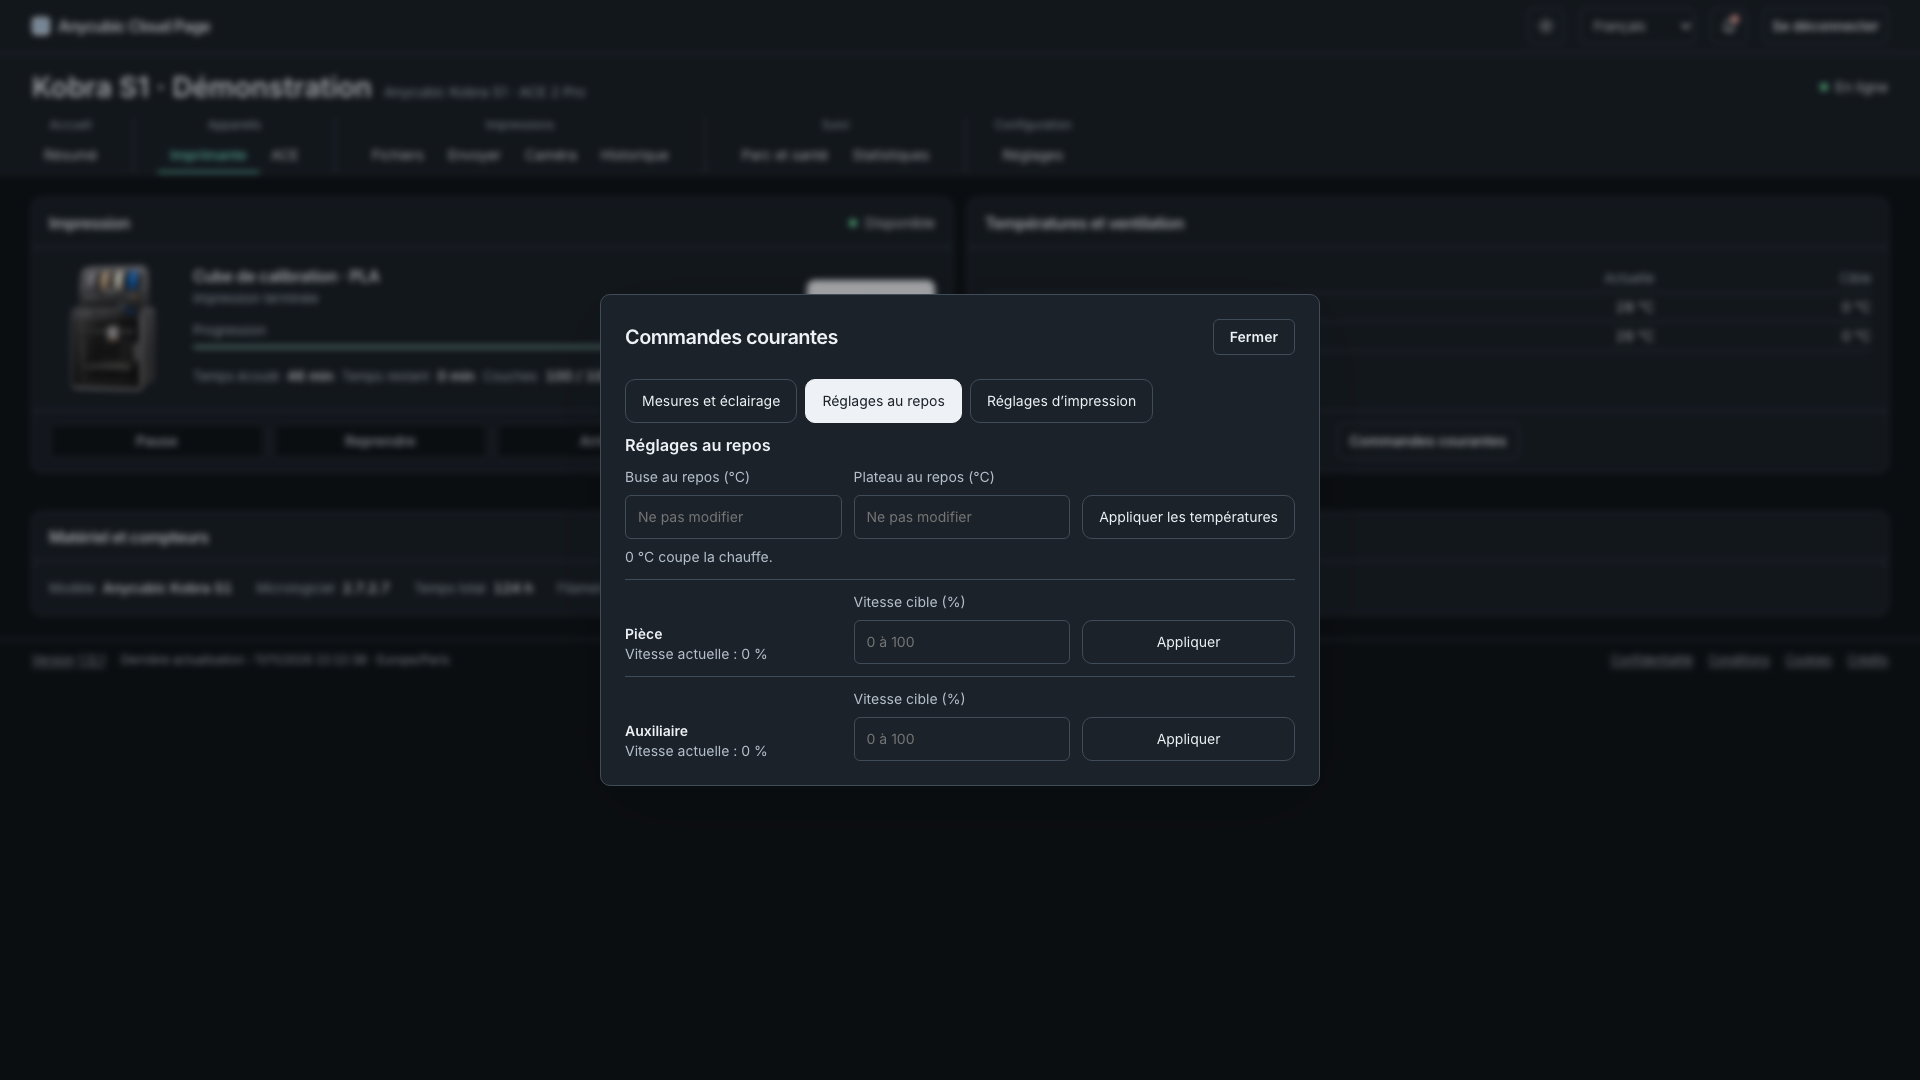
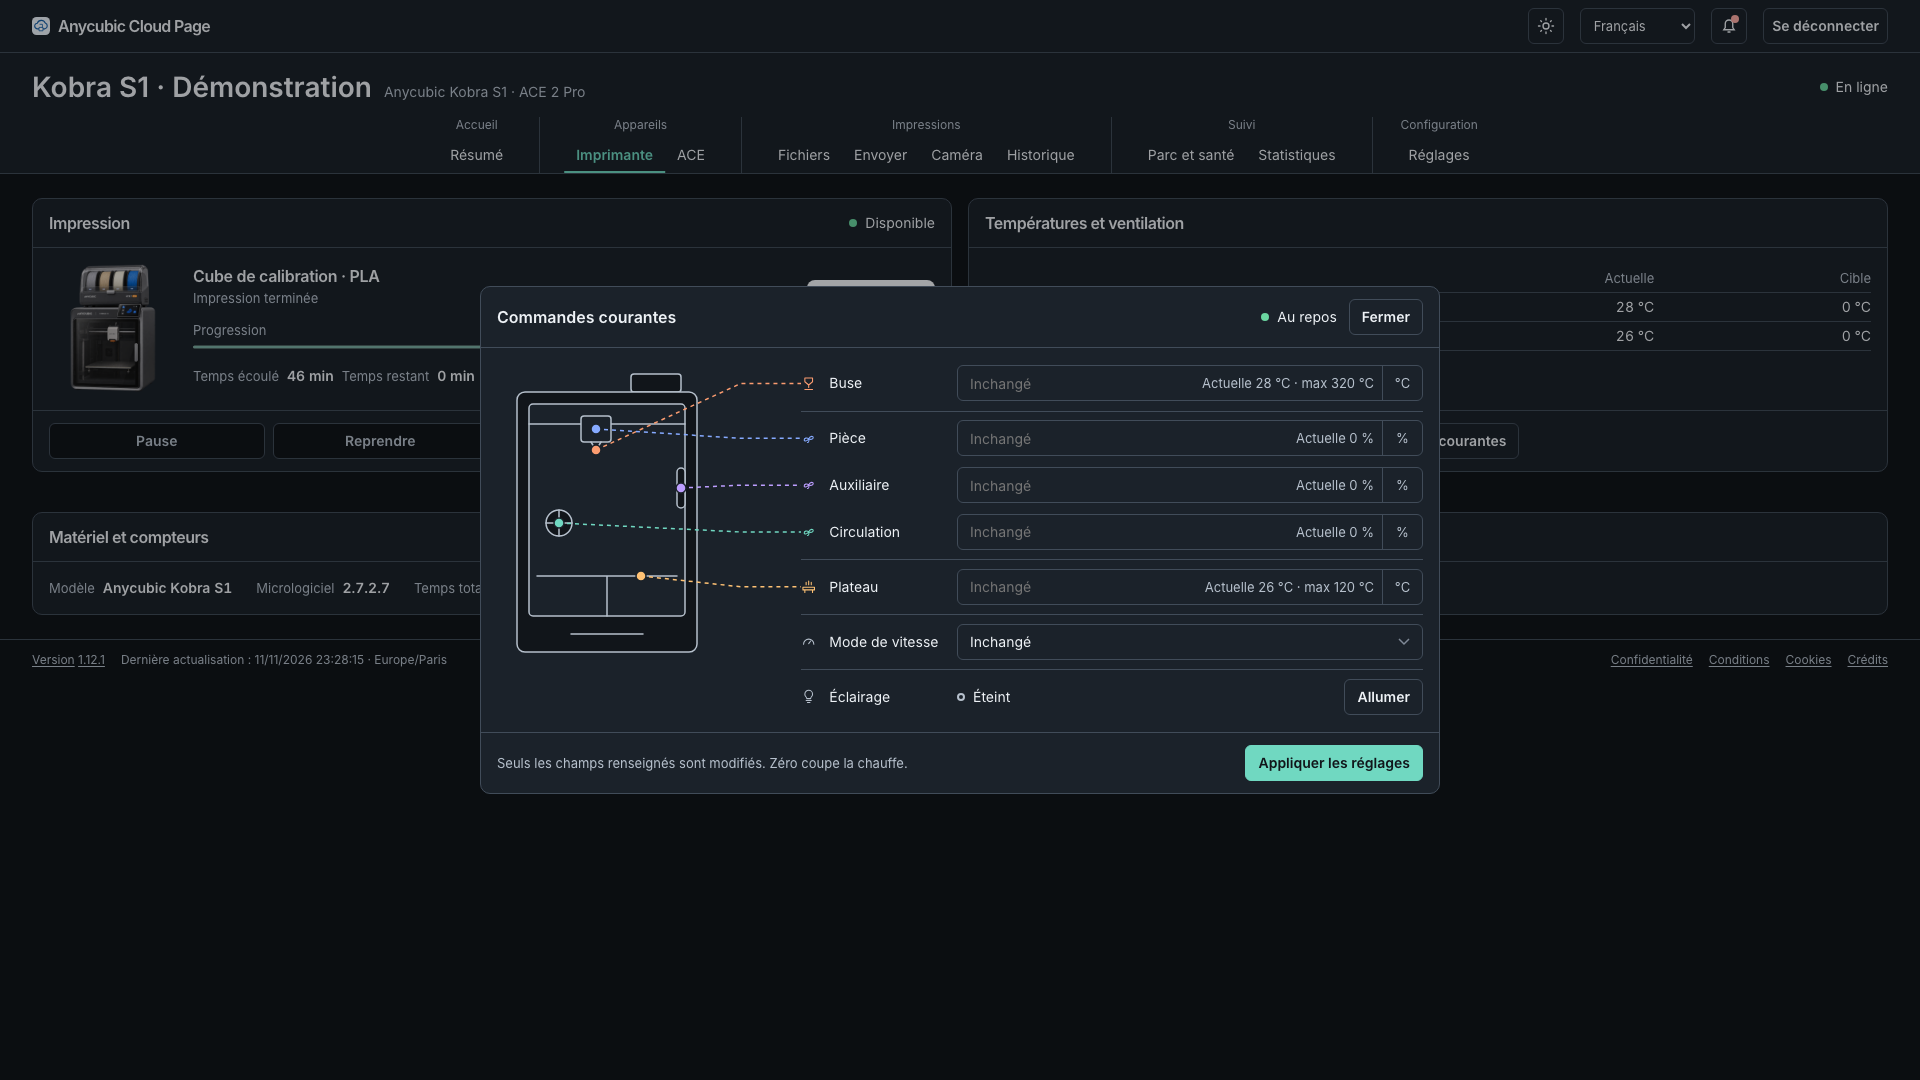
Transmettre le pourcentage réel de circulation
Fixes #323

diff --git a/web/css/atelier-history.css b/web/css/atelier-history.css
@@ -155,7 +155,7 @@
   .history-table :is(th, td):nth-child(4) { width: 13%; }
   .history-table :is(th, td):nth-child(5) { width: 6%; }
 }
-.task-detail-dialog{width:min(60rem,calc(100vw - var(--atelier-space-6) - var(--atelier-space-4)));max-width:60rem;max-height:calc(100dvh - var(--atelier-space-6) - var(--atelier-space-4));padding:0;overflow:auto;border:var(--atelier-rule) solid var(--atelier-line);border-radius:var(--atelier-card-radius);background:var(--atelier-surface);color:var(--atelier-fg);font:var(--atelier-text);box-shadow:none}
+.task-detail-dialog{width:min(var(--atelier-detail-dialog-width),calc(100vw - var(--atelier-space-6) - var(--atelier-space-4)));max-width:var(--atelier-detail-dialog-width);max-height:calc(100dvh - var(--atelier-space-6) - var(--atelier-space-4));padding:0;overflow:auto;border:var(--atelier-rule) solid var(--atelier-line);border-radius:var(--atelier-card-radius);background:var(--atelier-surface);color:var(--atelier-fg);font:var(--atelier-text);box-shadow:none}
 .task-detail-dialog::backdrop{background:var(--atelier-backdrop);backdrop-filter:none}
 .task-detail-dialog .dialog-top{position:sticky;top:0;z-index:2;display:flex;align-items:center;gap:var(--atelier-space-4);margin:0;padding:var(--atelier-space-3) var(--atelier-space-4);border-bottom:var(--atelier-rule) solid var(--atelier-line);background:var(--atelier-surface)}
 .task-detail-dialog .dialog-top h2{margin:0;font:var(--atelier-card-title);font-weight:var(--atelier-semibold);white-space:nowrap}

diff --git a/web/css/atelier-tokens.css b/web/css/atelier-tokens.css
@@ -33,7 +33,7 @@
   --atelier-workshop-title-size: clamp(var(--atelier-machine-size), 3vw, 2.35rem);
   --atelier-reading-font: 1rem/1.6 var(--atelier-font);
   --atelier-swatch-border: #0002;
-  --atelier-controls-width: 960px;
+  --atelier-detail-dialog-width: 960px;
   --atelier-controls-device: 304px;
   --atelier-controls-diagram-width: 320px;
   --atelier-controls-illustration: 255px;

diff --git a/web/css/atelier-current-controls.css b/web/css/atelier-current-controls.css
@@ -1,6 +1,6 @@
 /* La grille du formulaire sert aussi de repère à l’extrémité des traits. */
 #controls-dialog {
-  width: min(var(--atelier-controls-width), calc(100% - var(--atelier-space-6)));
+  width: min(var(--atelier-detail-dialog-width), calc(100% - var(--atelier-space-6)));
   max-width: none;
   padding: 0;
   border-radius: var(--atelier-card-radius);

diff --git a/app/test_idle_controls.py b/app/test_idle_controls.py
@@ -46,10 +46,17 @@ class IdleControlsTests(unittest.IsolatedAsyncioTestCase):
                     "data": {"type": kind, "target_nozzle_temp": nozzle, "target_hotbed_temp": bed},
                 },
             )
-        self.assertEqual(
-            idle_request(target, {"fan_speed_pct": 20}).order_request_data,
-            {"order_id": "1221", "printer_id": 7, "data": {"fan_speed_pct": 20}},
-        )
+        for key, value in (
+            ("fan_speed_pct", 20),
+            ("aux_fan_speed_pct", 35),
+            ("box_fan_level", 33),
+            ("box_fan_level", 0),
+        ):
+            with self.subTest(key=key, value=value):
+                self.assertEqual(
+                    idle_request(target, {key: value}).order_request_data,
+                    {"order_id": "1221", "printer_id": 7, "data": {key: value}},
+                )
 
     def test_unknown_limits_model_and_invalid_values_never_send(self):
         """Pas de bornes par défaut, de conversion booléenne ni de requête ambiguë."""
@@ -58,6 +65,9 @@ class IdleControlsTests(unittest.IsolatedAsyncioTestCase):
             {"target_hotbed_temp": 111},
             {"target_nozzle_temp": True},
             {"fan_speed_pct": 101},
+            {"box_fan_level": 101},
+            {"box_fan_level": -1},
+            {"box_fan_level": 33, "fan_speed_pct": 20},
             {"fan_speed_pct": 20, "target_hotbed_temp": 30},
             {"fan_speed_pct": 20, "aux_fan_speed_pct": 30},
             {"task_settings": {}},

diff --git a/app/idle_controls.py b/app/idle_controls.py
@@ -72,7 +72,8 @@ def idle_request(target, values):
         raise ValueError("Préchauffage non annoncé pour cette imprimante")
     clean = {key: value for key, value in values.items() if value not in ("", None)}
     temperatures = {"target_nozzle_temp", "target_hotbed_temp"}
-    fans = {"fan_speed_pct", "aux_fan_speed_pct"}
+    # Le client Slicer traite les trois ventilateurs de la S1 sur l’échelle 0–100.
+    fans = {"fan_speed_pct", "aux_fan_speed_pct", "box_fan_level"}
     if clean and clean.keys() <= temperatures:
         parsed = {}
         for key, value in clean.items():
@@ -90,7 +91,6 @@ def idle_request(target, values):
         return IdleOrder(
             1221, target.printer.id, {key: integer(value, 0, 100) for key, value in clean.items()}
         )
-    # L’unité du troisième ventilateur diffère entre clients : ne pas ajouter une échelle supposée.
     raise ValueError("Choisissez les températures ou un seul ventilateur")
 
 

diff --git a/app/test_print_preflight.py b/app/test_print_preflight.py
@@ -27,10 +27,12 @@ class FirmwarePreflightTests(unittest.IsolatedAsyncioTestCase):
                 result = await execute_command(
                     SimpleNamespace(printer=printer, api=api),
                     "settings",
-                    {"target_nozzle_temp": 200},
+                    {"box_fan_level": "33"},
                 )
                 self.assertIn("acceptée", result)
                 api._send_order_change_print_settings.assert_awaited_once()
+                _, settings = api._send_order_change_print_settings.await_args.args
+                self.assertEqual(settings.settings_data, {"box_fan_level": 33})
             else:
                 with self.assertRaisesRegex(ValueError, "impression active"):
                     await execute_command(

diff --git a/app/printer_commands.py b/app/printer_commands.py
@@ -185,7 +185,7 @@ async def execute_command(target, name, d):
             "target_hotbed_temp": (0, 120),
             "fan_speed_pct": (0, 100),
             "aux_fan_speed_pct": (0, 100),
-            "box_fan_level": (0, 3),
+            "box_fan_level": (0, 100),
             "bottom_layers": (0, 1000),
             "bottom_time": (0, 1000),
             "off_time": (0, 1000),

diff --git a/docs/SOURCES.md b/docs/SOURCES.md
@@ -24,7 +24,8 @@ Les [révisions et licences amont](UPSTREAM-COMPARISON.md#lectures-retenues-pour
 
 ## Ventilation et température de chambre
 
-- [Anycubic Cloud Client, description des ordres et de la télémétrie](https://github.com/Nino6689/anycubic-cloud-client/blob/6ea79c733ac3909f7bc1ca4970f2f75fe8d302b7/docs/PROTOCOL.md#545-order-1221--set-fan-speed-data). La commande documente le champ `box_fan_level` et les ordres à une seule cible. Les relevés distinguent le niveau de circulation des pourcentages pièce et auxiliaire. Le document signale aussi une validation côté client plus large. Il ne prouve pas l’unité effectivement acceptée au repos sur la S1.
+- [Anycubic Cloud Client, description des ordres et de la télémétrie](https://github.com/Nino6689/anycubic-cloud-client/blob/6ea79c733ac3909f7bc1ca4970f2f75fe8d302b7/docs/PROTOCOL.md#545-order-1221--set-fan-speed-data). L’ordre `1221` utilise le champ `box_fan_level` pour la circulation et un seul champ par ordre.
+- [Banc de travail officiel Anycubic Slicer Next](https://cloud-universe.anycubic.com/w/p/AcOrcaWeb/workbench/). Le profil S1 du client fixe les limites de `box_fan_level` de 0 à 100. La vue Cloud lit cette valeur en pourcentage et l’envoie telle quelle dans les réglages d’impression.
 - [MineTech13, paquets Linux d’Anycubic Slicer Next](https://github.com/MineTech13/anycubic-slicer-next). Le dépôt reconditionne le client officiel. Il ne contient pas le code de la commande Cloud. Sur la Kobra S1 en mode Cloud, le client installé affiche la circulation en pourcentage et un champ Chambre à 0 °C / 0 °C. Ce dernier ne constitue pas une mesure de chambre exploitable.
 - [OrcaCubic, périmètre de son étude Cloud](https://github.com/marcodiniz/OrcaCubic/blob/main/docs/FUTURE_ANYCUBIC_CLOUD_PRINTING.md). L’intégration testée du projet concerne la Kobra X en réseau local. L’étude Cloud ne valide aucun ordre de ventilation sur la S1.
 - [Wiki Anycubic, chauffage de chambre du modèle S1 Max](https://wiki.anycubic.com/en/fdm-3d-printer/kobra-s1-max-combo/cavity-control-feature-introduction). La limite de 65 °C appartient à cette fonction du S1 Max et ne permet pas de déduire une commande ou une mesure sur la S1.

diff --git a/docs/IDLE-AXES.md b/docs/IDLE-AXES.md
@@ -12,7 +12,7 @@ La fenêtre **Commandes courantes** affiche les mêmes lignes au repos et pendan
 
 Le formulaire de température envoie l’ordre `1216` sous la forme imprimante : `order_id` texte, `printer_id` numérique, `data`, sans `project_id`. `type` vaut 0 pour la buse seule, 1 pour le plateau seul et 2 pour les deux. Les champs de la cible non choisie sont nuls selon ce contrat; `type` détermine les cibles modifiées. Les températures respectent les limites `free_temp_limit`, distinctes des limites d’impression `temp_limit`.
 
-Un ordre `1221` règle un seul ventilateur, pièce ou auxiliaire, en pourcentage de 0 à 100. Pour le ventilateur **Circulation**, le parcours d’impression existant conserve son champ Cloud `box_fan_level` et l’atelier convertit le pourcentage vers le niveau le plus proche. L’envoi au repos reste à vérifier. La température de chambre reste absente de l’atelier tant qu’aucune mesure Cloud exploitable n’a été identifiée sur la S1.
+Un ordre `1221` règle un seul ventilateur au repos (Pièce, Auxiliaire ou Circulation), avec un entier de 0 à 100. Le pourcentage de Circulation utilise le champ `box_fan_level` au repos et dans les réglages d’impression, avec la même échelle à la relecture. Sur une S1 libre, Anycubic Slicer Next a affiché 33 % après réglage puis 0 % après remise à zéro. Le parcours de l’atelier est vérifié sur des réponses fictives. La température de chambre reste absente de l’atelier tant qu’aucune mesure Cloud exploitable n’a été identifiée sur la S1.
 
 La confirmation précède le POST et son absence est refusée côté serveur. Sous les verrous existants, le serveur relit la machine et ses limites, refuse une identité modifiée, une activité ou une mise à jour, puis envoie au maximum un ordre. Une réponse HTTP acceptée ne prouve pas son application matérielle; l’interface le dit. Aucun délai ou refus n’entraîne un rejeu. Les réglages du projet actif gardent leur parcours distinct.
 

diff --git a/screenshots/README.md b/screenshots/README.md
@@ -29,8 +29,9 @@ Captures de la démonstration authentifiée, produites avec `scripts/capture_dem
 | [22-detail-supervision.png](22-detail-supervision.png) | Détail des relevés dans Parc et santé. |
 | [23-discord-alertes.png](23-discord-alertes.png) | Réglage du webhook des alertes, champ secret vide. |
 | [24-discord-bilans.png](24-discord-bilans.png) | Réglage distinct des bilans programmés. |
-| [25-commandes-au-repos.png](25-commandes-au-repos.png) | Réglages au repos et commandes séparées des ventilateurs Pièce et Auxiliaire, en mode sombre. |
+| [25-commandes-au-repos.png](25-commandes-au-repos.png) | Schéma de la S1 et commandes courantes au repos, en mode sombre. |
 | [26-sechage-ace.png](26-sechage-ace.png) | Interrupteur, état et réglages du séchage ACE, en mode sombre. |
+| [27-details-tache.png](27-details-tache.png) | Fenêtre de détails partagée entre Imprimante et Historique. |
 
 Pour les refaire : installer les dépendances de développement et Chromium Playwright, puis lancer `node scripts/capture_demo.cjs` depuis la racine. Le script démarre uniquement `app/demo.py --auth`, crée un fichier temporaire de mot de passe fictif et ferme ce serveur après capture. `UI_PYTHON` permet de choisir l’interpréteur Python du projet. Aucun moteur Docker n’est nécessaire.
 
